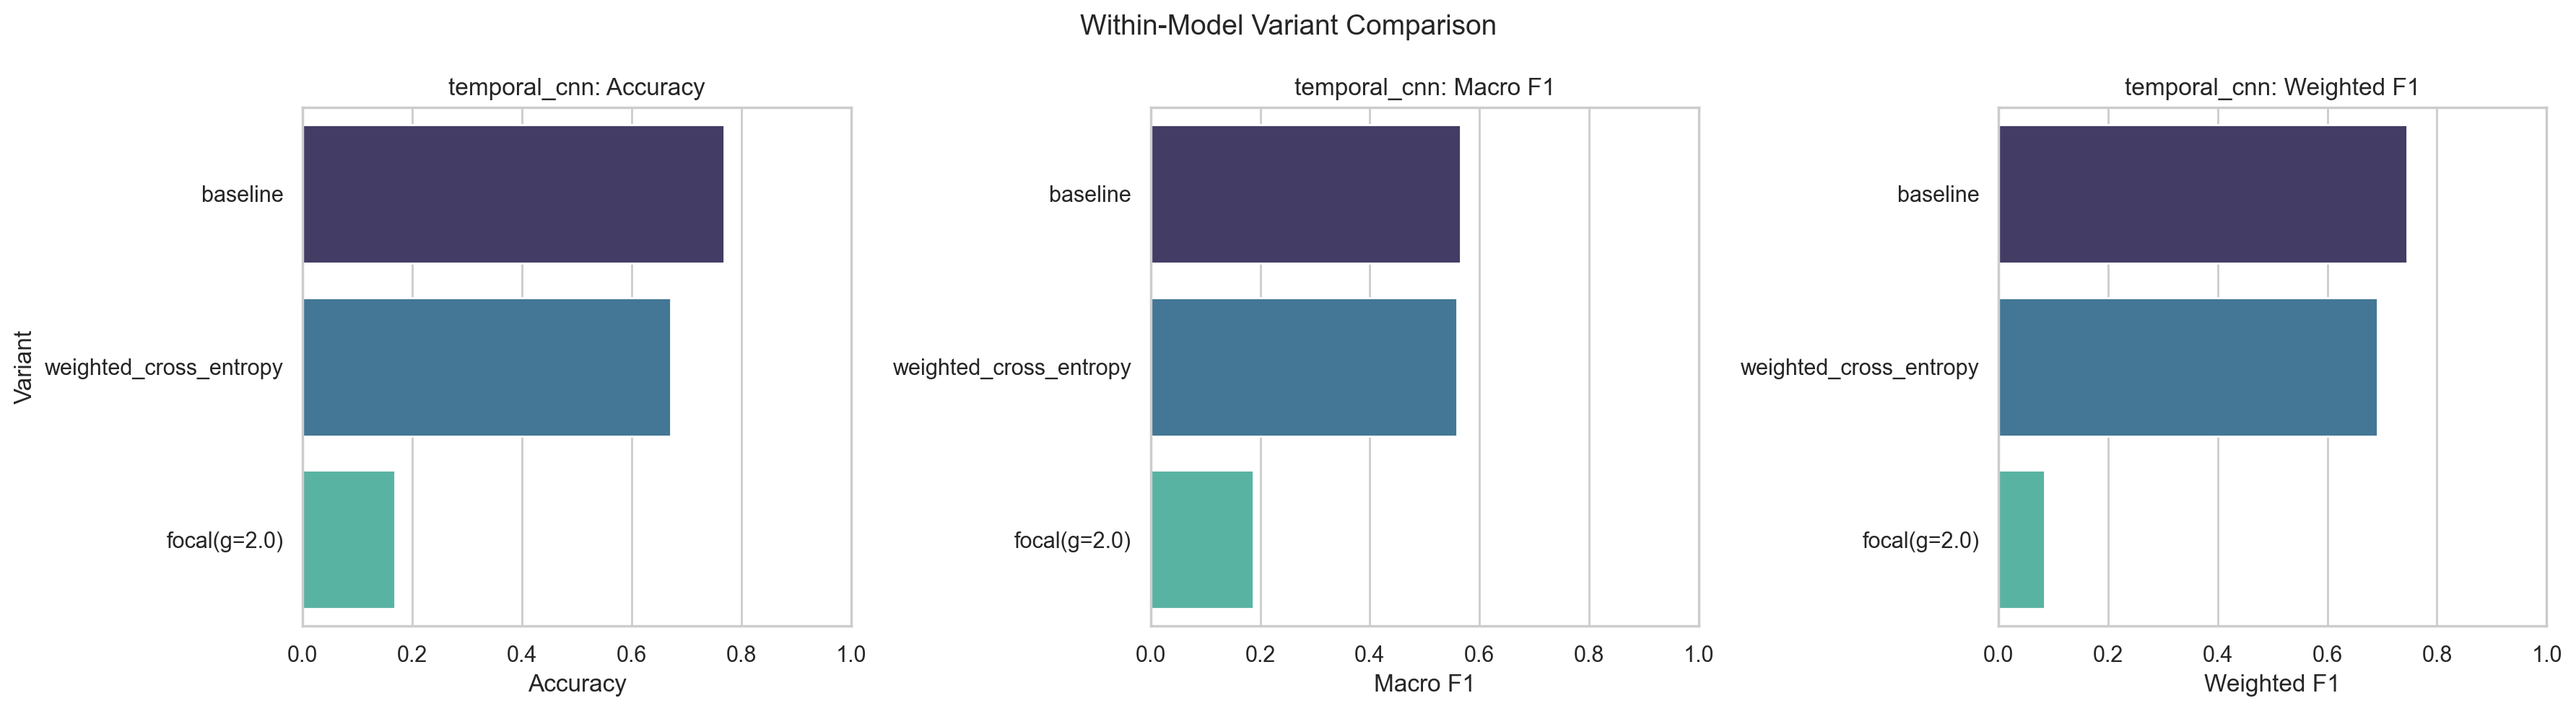
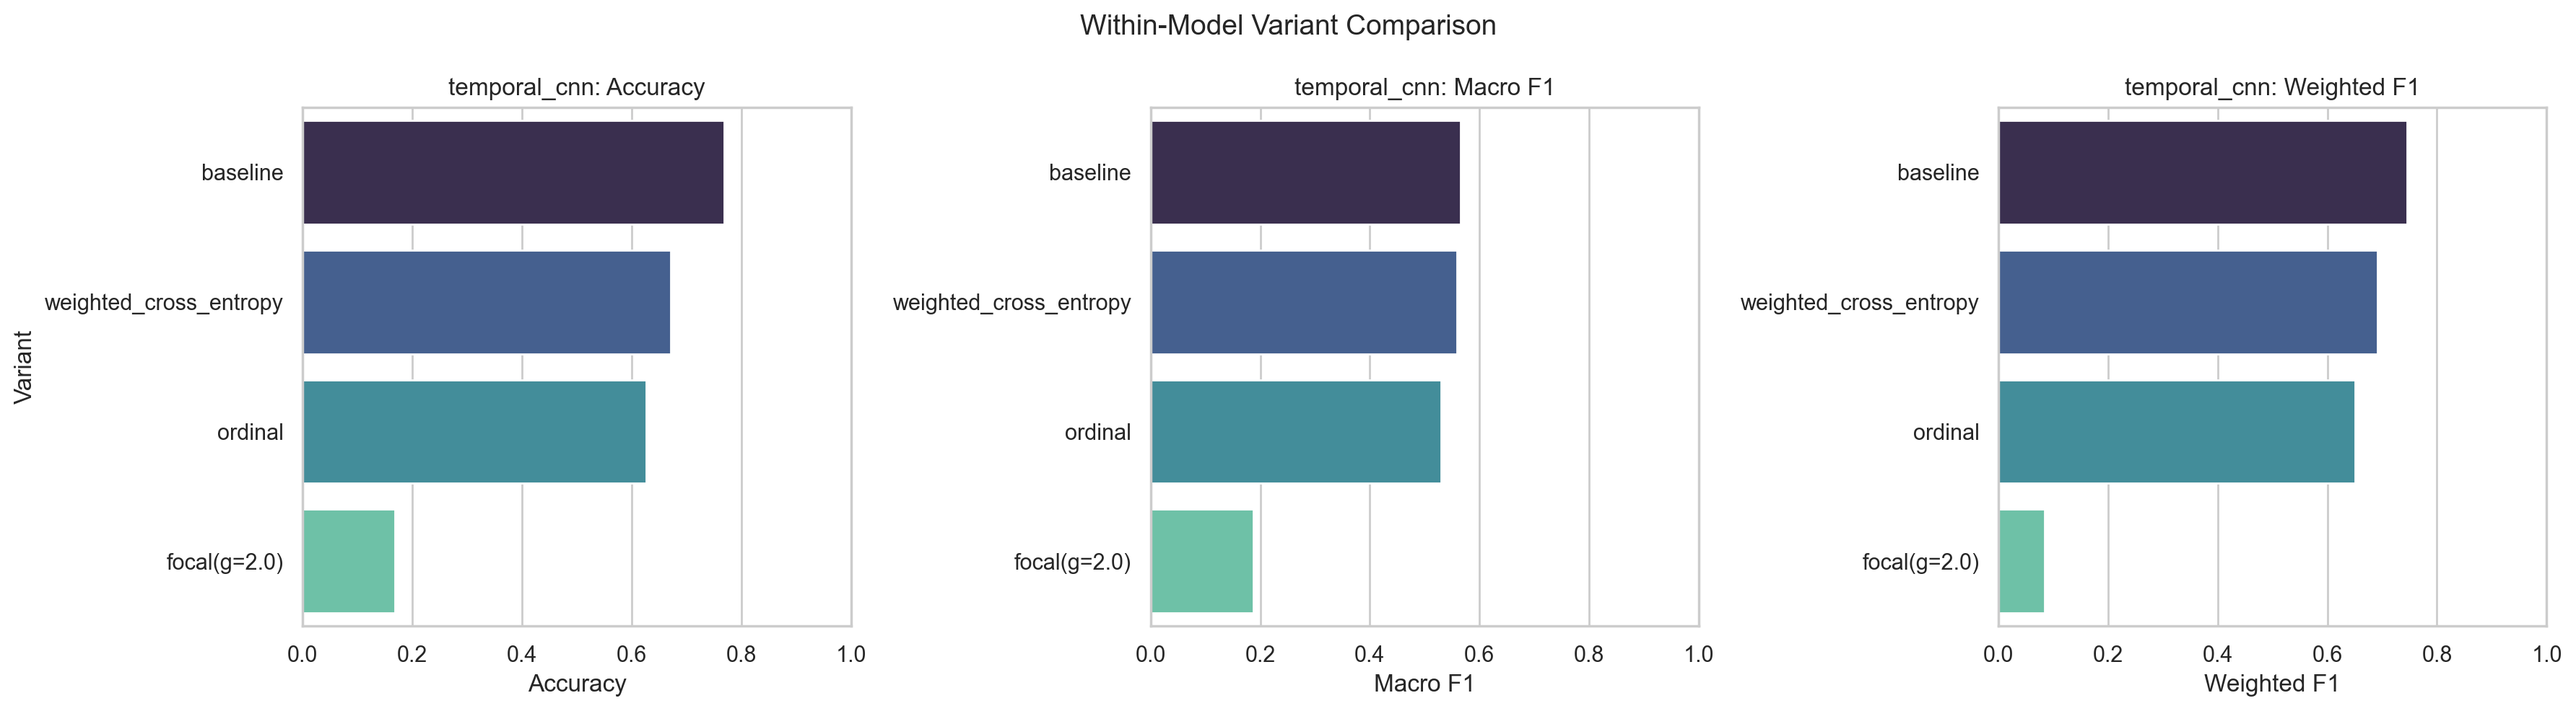
...

diff --git a/outputs/visualizations/temporal_cnn_ordinal/report.md b/outputs/visualizations/temporal_cnn_ordinal/report.md
@@ -1,0 +1,23 @@
+# temporal_cnn
+
+- Run folder: `temporal_cnn_ordinal`
+- Metrics file: `outputs\temporal_cnn_ordinal\metrics.json`
+- Accuracy: 0.6257
+- Macro F1: 0.5305
+- Weighted F1: 0.6507
+- Best epoch: 58
+
+## Classification Report
+
+```text
+              precision    recall  f1-score   support
+
+           0       0.30      0.54      0.39        35
+           1       0.41      0.64      0.50       221
+           2       0.89      0.60      0.72       847
+           3       0.38      0.77      0.51       118
+
+    accuracy                           0.63      1221
+   macro avg       0.50      0.64      0.53      1221
+weighted avg       0.74      0.63      0.65      1221
+```

diff --git a/outputs/visualizations/comparison_report.md b/outputs/visualizations/comparison_report.md
@@ -14,4 +14,5 @@
 ### temporal_cnn
 - `baseline`: run `temporal_cnn`, Macro F1=0.5647, Accuracy=0.7682
 - `weighted_cross_entropy`: run `temporal_cnn_weighted_ce`, Macro F1=0.5592, Accuracy=0.6708
+- `ordinal`: run `temporal_cnn_ordinal`, Macro F1=0.5305, Accuracy=0.6257
 - `focal(g=2.0)`: run `temporal_cnn_focal`, Macro F1=0.1881, Accuracy=0.1687
